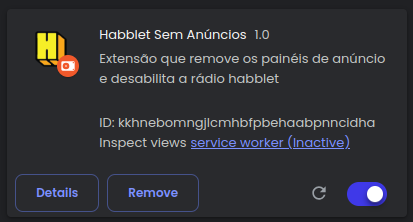
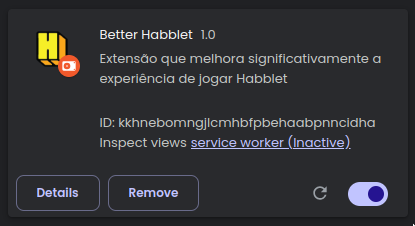
feat: updated readme and project name

diff --git a/README.md b/README.md
@@ -1,43 +1,75 @@
-# Habblet Ad-Blocker
+# Better Habblet
 
-Habblet AdBlocker é uma extensão simples que melhora a experiência de jogar habblet removendo os anúncios irritantes
+Better Habblet é uma extensão para navegadores baseados no Chromium projetada para aprimorar a experiência de jogar Habblet. Ela remove anúncios, oferece um controle mais fácil da rádio do jogo e adiciona menus utilitários dentro do ambiente virtual.
 
 ## Funcionalidades
 
-- Remove os banners de anúncio, assim como outros anúncios da google
-- Esconde e muta a rádio do jogo opcionalmente (A sua escolha é lembrada permanentemente)
+- **Bloqueio de anúncios**: Remove permanentemente os banners de anúncios indesejados do jogo.
+- **Controle da rádio**: Permite esconder ou silenciar a rádio do jogo de forma opcional, com sua escolha sendo mantida mesmo após fechar o navegador.
+- **Menu de handitems**: Adiciona um menu interativo para seleção de handitems ao entrar em quartos do jogo.
 
+## Instalação da Extensão
 
-## Instalando a extensão
+1. **Baixe o repositório zipado**:
+   - Acesse o botão de download do repositório e clique para salvar o arquivo.
+   
+   ![Botão de download](.github/step-1.png)
 
-- Realize o download do repositório zipado
+2. **Extraia os arquivos**:
+   - Salve o arquivo zipado em um diretório de sua preferência e extraia o conteúdo.
 
-![print do botao de download](.github/step-1.png)
+3. **Acesse o gerenciador de extensões do navegador**:
+   - Abra o navegador baseado em Chromium de sua preferência e navegue até a aba "Gerenciar Extensões".
 
-- Salve o arquivo zipado em qualquer diretório de sua escolha
-- Extraia a pasta de dentro do arquivo
-- Abra o seu navegador de preferência e vá em Gerenciar Extensões
-- Na aba de gerenciar extesões, ative o modo desenvolvedor clicando no botão
+4. **Habilite o modo desenvolvedor**:
+   - Ative o modo desenvolvedor clicando no botão correspondente.
+   
+   ![Botão do modo desenvolvedor](.github/step-2.png)
 
-![botão do modo desenvolvedor](.github/step-2.png)
+5. **Carregue a extensão**:
+   - Clique em "Load unpacked" e selecione a pasta extraída do arquivo zip.
+   
+   ![Três botões selecionáveis](.github/step-3.png)
 
-- Clique no botão "Load unpacked" e selecione a pasta que vc realizou o download anteriormente
+6. **Confirmação da instalação**:
+   - A extensão será carregada corretamente e aparecerá junto com outras extensões instaladas.
+   
+   ![Detalhes da extensão](.github/step-4.png)
 
-![três botões selecionáveis](.github/step-3.png)
+7. **Fixe a extensão para acesso rápido**:
+   - Pine a extensão na barra de ferramentas do navegador.
 
-- Após selecionar a pasta a extensão deverá carregar corretamente e irá aparecer junto de outras extensões, da seguinte forma
+## Como Usar
 
-![print dos detalhes da extensão](.github/step-4.png)
+1. **Bloqueio automático de anúncios**:
+   - Ao acessar o jogo, os anúncios serão bloqueados automaticamente.
 
-- Pronto, agora é só pinar a extensão na sua barra de extensões!
+2. **Acessando o painel de opções**:
+   - Certifique-se de estar na URL do jogo (`habblet.city/hotelv2`) e clique no ícone da extensão para abrir o painel de opções.
+   
+   ![Abrir painel de opções](.github/step-5.png)
 
-## Como utilizar?
+3. **Configurações personalizadas**:
+   - Escolha entre as opções disponíveis (as configurações permanecem após recarregar a página).
+   
+   ![Painel de opções](.github/step-6.png)
 
-- Automaticamente a extensão irá bloquear os anúncios
-- Assim que vc estiver na aba do jogo, ou seja, na url "habblet.city/hotelv2" realize um click no ícone da extensão para abrir o painel de opções.
-![](.github/step-5.png)
+4. **Menu de handitems**:
+   - Ao entrar em um quarto, um menu de handitems será adicionado à barra de ferramentas.
+   
+   ![Menu de handitems](.github/step-7.png)
 
-- Agora é só escolher entre as duas opções disponíveis (A escolha permanece mesmo ao recarregar a página)   
-![](.github/step-6.png)
+5. **Selecione um handitem**:
+   - Clique no ícone do menu para abrir a lista de handitems. Escolha um item, e ele será equipado automaticamente, sem necessidade de comandos como `:handitem x`.
+   
+   ![Seleção de handitems](.github/step-8.png)
 
-Só aproveitar agr!
+## Futuras Melhorias
+
+- **Menu utilitário de enables**: Inclusão de uma ferramenta para gerenciar enables do jogo.
+- **Compatibilidade ampliada**: Permitir o uso da extensão em navegadores não baseados no Chromium, como Firefox.
+- **Integração de ferramenta de build**: Implementar suporte a sistemas como Esbuild, Vite ou Webpack para facilitar o desenvolvimento e distribuição.
+
+---
+
+Aproveite sua experiência no Habblet com a Better Habblet!
